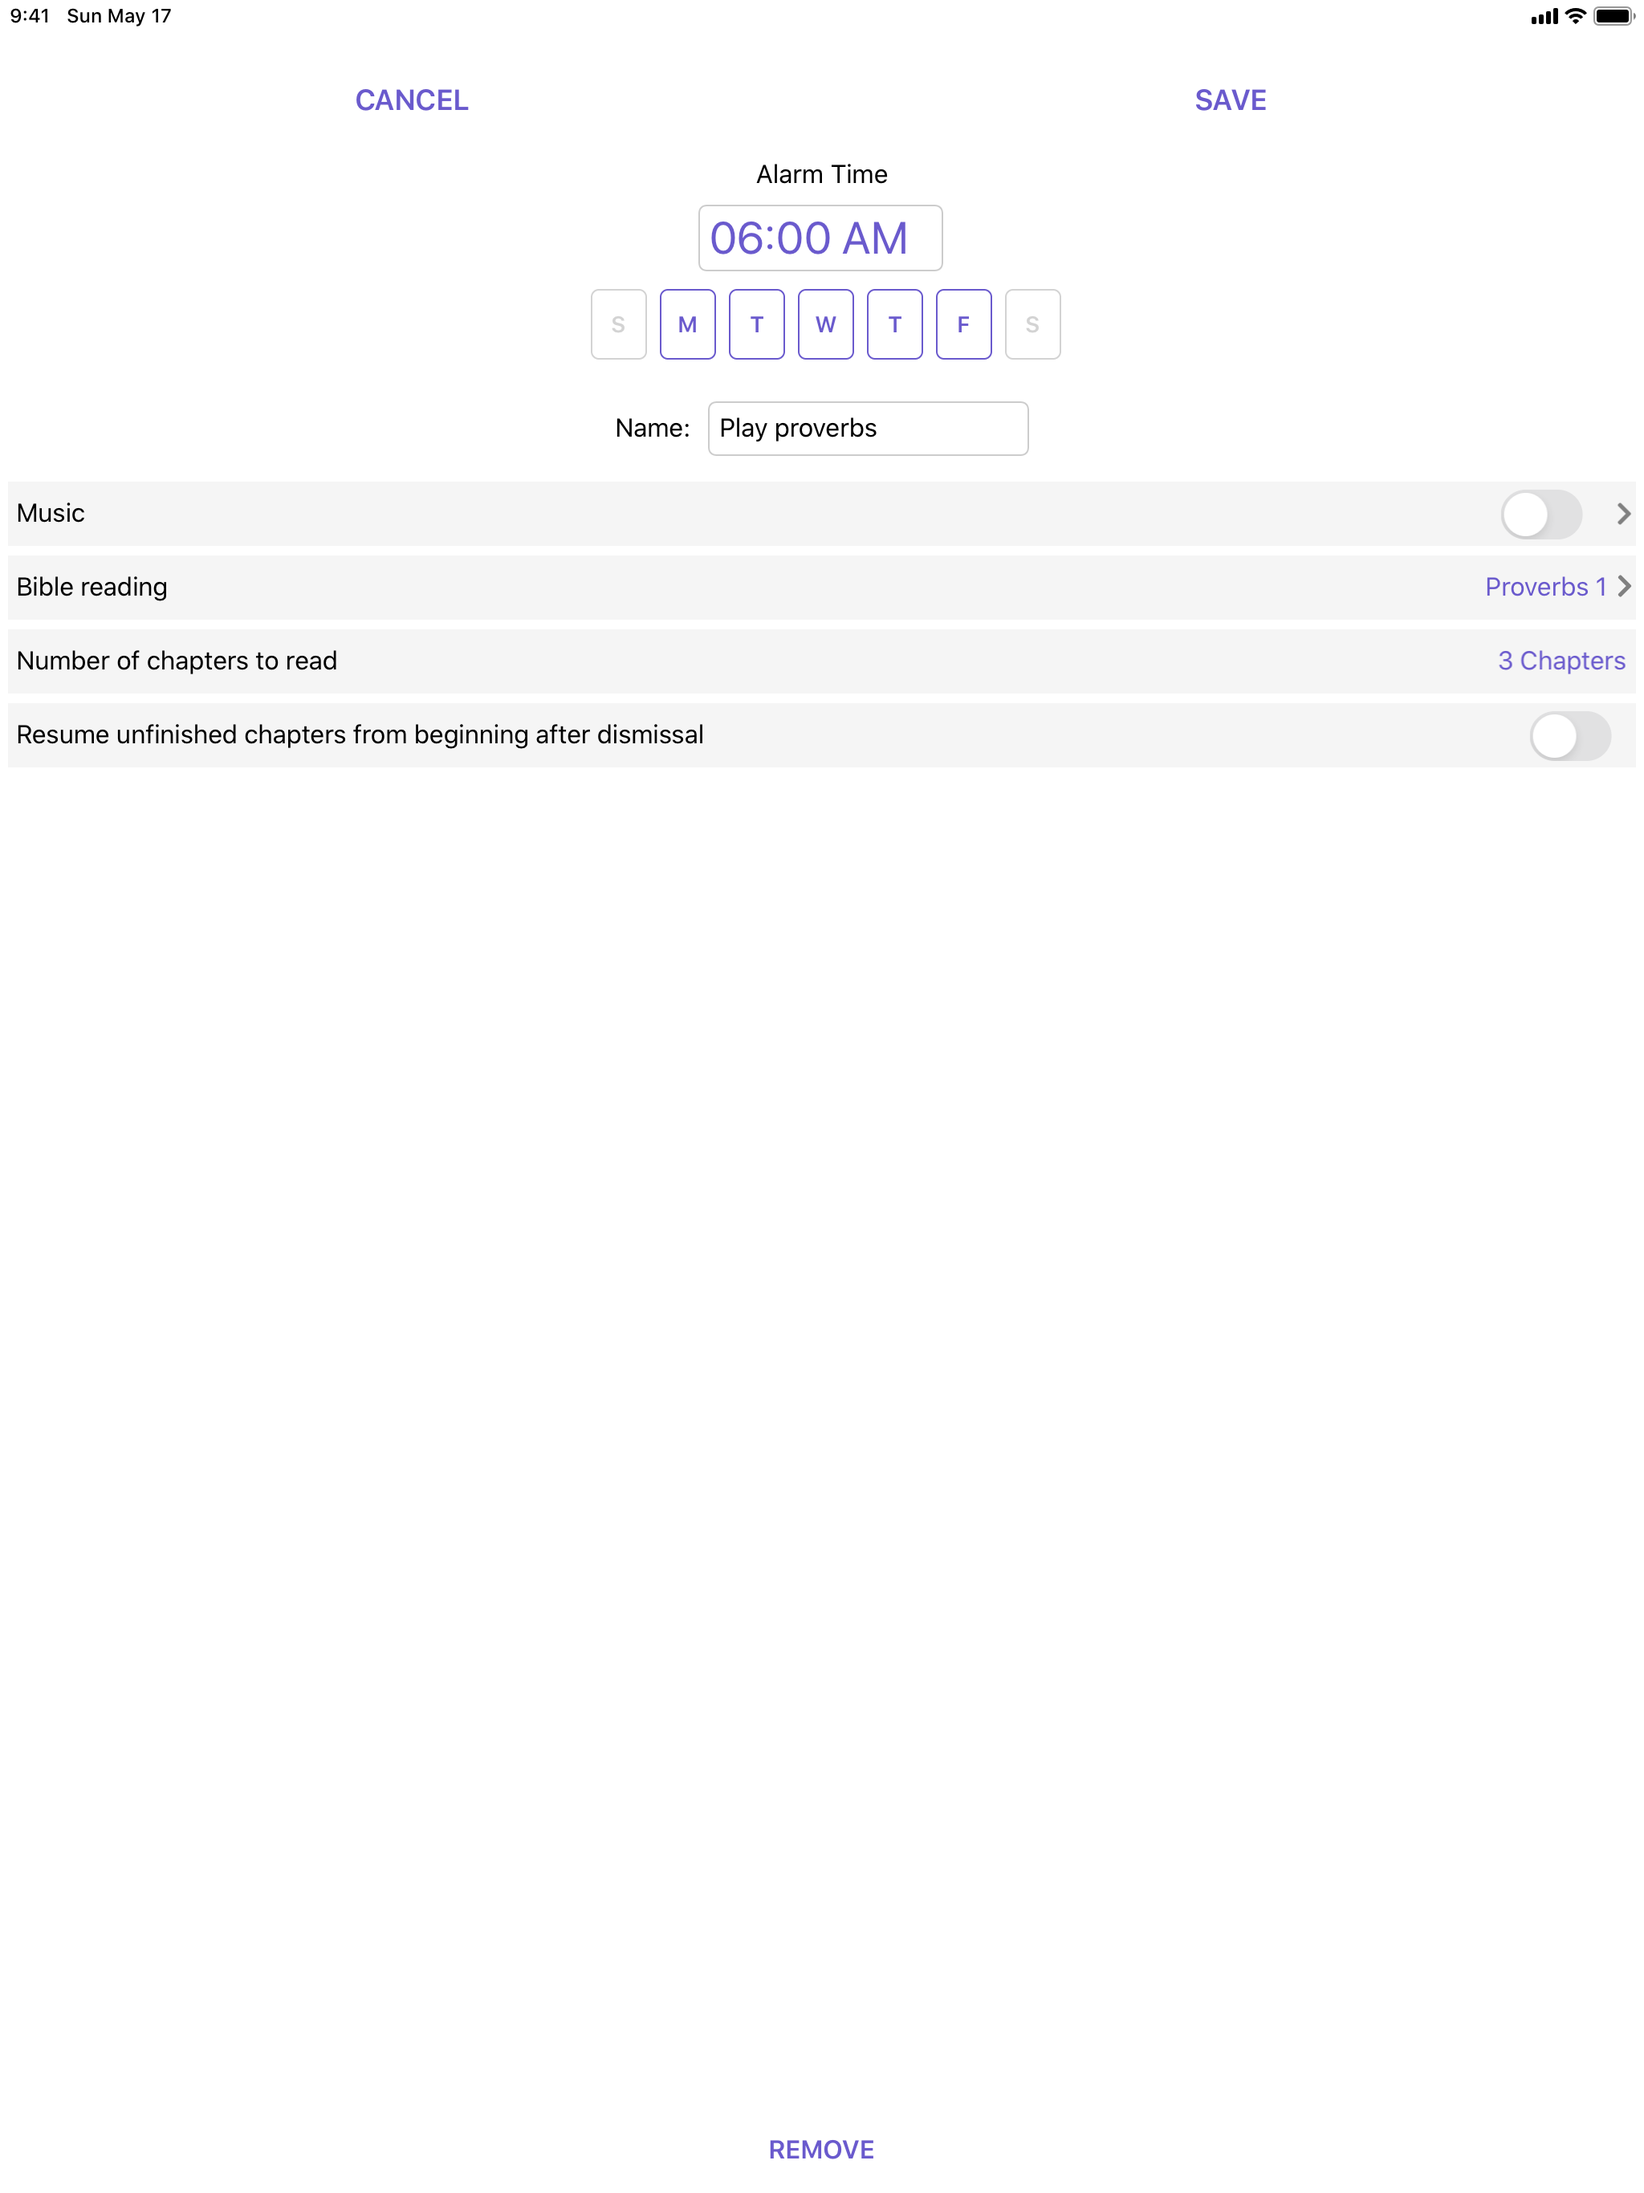
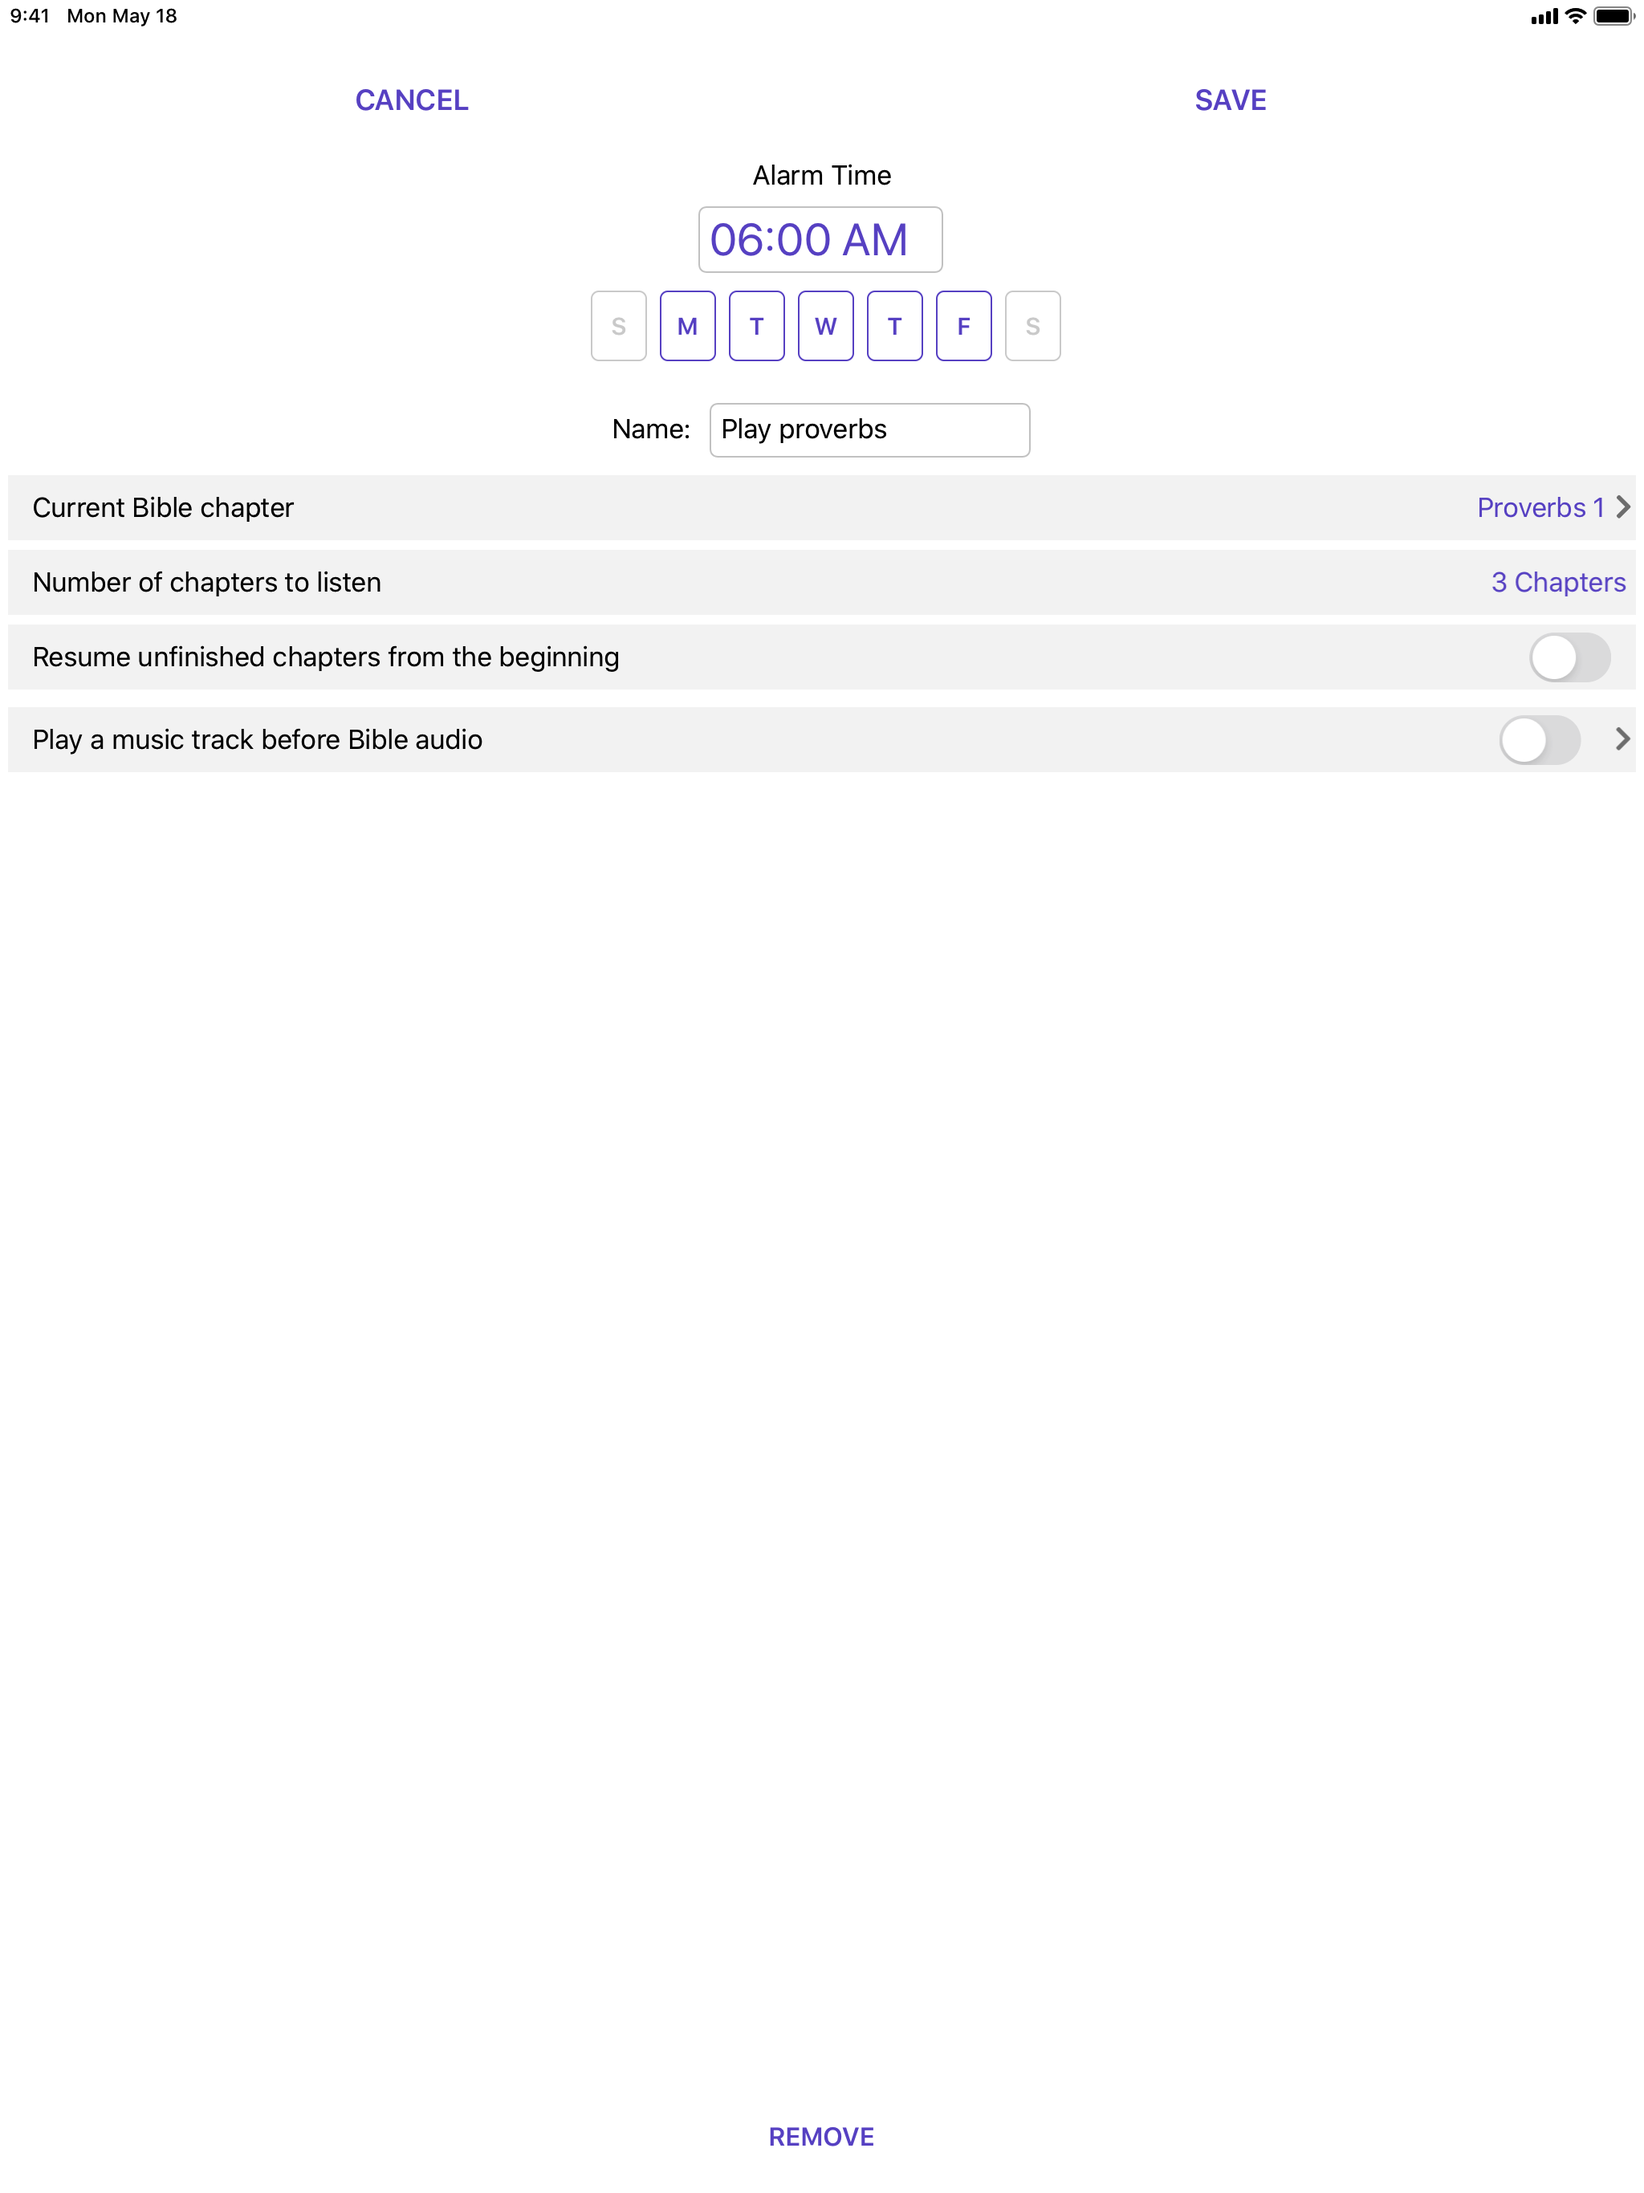
updates

diff --git a/src/Bible.Alarm/Bible.Alarm/UI/Views/Schedule/Schedule.xaml b/src/Bible.Alarm/Bible.Alarm/UI/Views/Schedule/Schedule.xaml
@@ -265,8 +265,8 @@
                             HorizontalOptions="Fill"
                             MinimumHeightRequest="40">
                             <Grid.ColumnDefinitions>
-                                <ColumnDefinition Width="6*" />
-                                <ColumnDefinition Width="4*" />
+                                <ColumnDefinition Width="7*" />
+                                <ColumnDefinition Width="3*" />
                             </Grid.ColumnDefinitions>
                             <Grid.GestureRecognizers>
                                 <TapGestureRecognizer Command="{Binding OpenModalCommand}" NumberOfTapsRequired="1" />
@@ -277,7 +277,7 @@
                                 Margin="5,0,0,0"
                                 Padding="10"
                                 HorizontalTextAlignment="Start"
-                                Text="Number of chapters to read"
+                                Text="Number of chapters to listen"
                                 TextColor="Black"
                                 VerticalOptions="Center" />
                             <Label
@@ -298,8 +298,8 @@
                                 <TapGestureRecognizer Command="{Binding ToggleAlwaysPlayFromStartCommand}" NumberOfTapsRequired="1" />
                             </Grid.GestureRecognizers>
                             <Grid.ColumnDefinitions>
-                                <ColumnDefinition Width="6*" />
-                                <ColumnDefinition Width="4*" />
+                                <ColumnDefinition Width="7*" />
+                                <ColumnDefinition Width="3*" />
                             </Grid.ColumnDefinitions>
 
                             <Label
@@ -310,7 +310,7 @@
                                 HorizontalTextAlignment="Start"
                                 TextColor="Black"
                                 VerticalOptions="Center">
-                                Always resume unfinished chapters from the beginning
+                                Resume unfinished chapters from the beginning
                             </Label>
                             <StackLayout
                                 Grid.Column="1"
